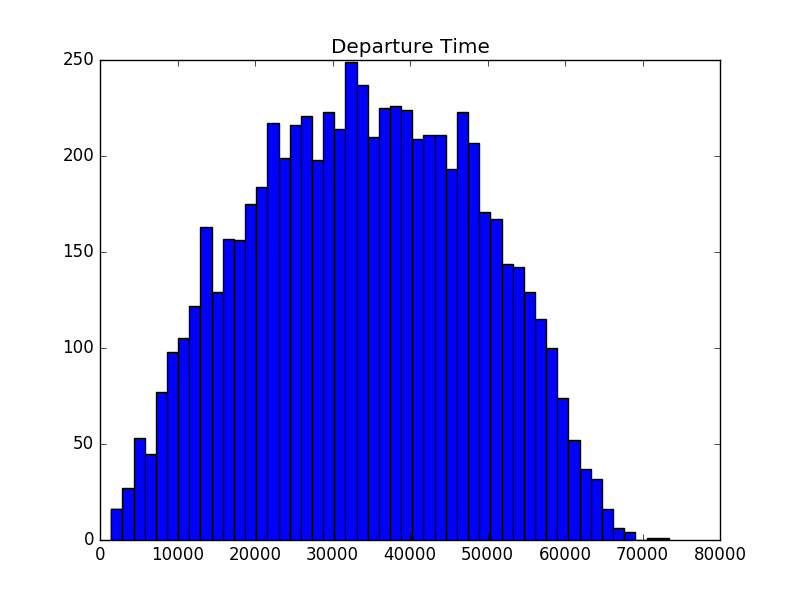
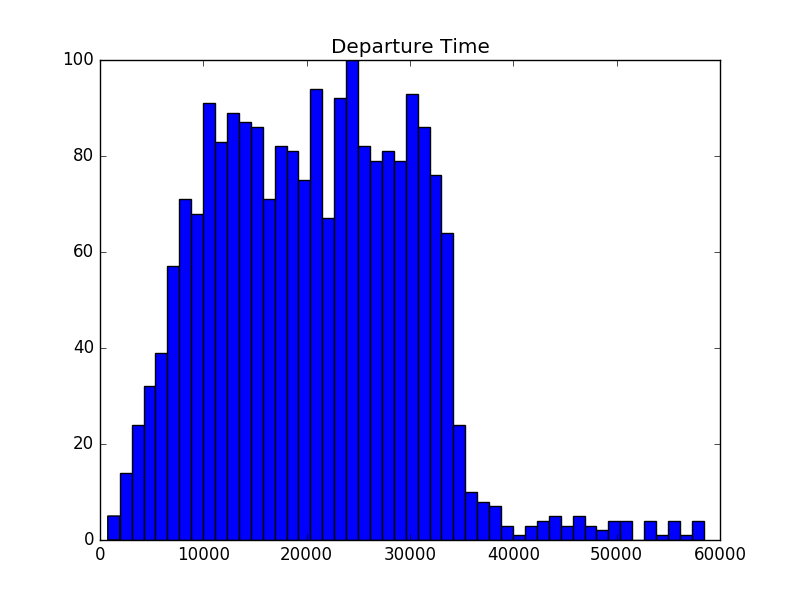
general update

diff --git a/MMnPSQ.py b/MMnPSQ.py
@@ -33,7 +33,7 @@ class SimulationModel():
         self.service_rate = service_rate
         self.server_count = server_count
         t = np.linspace(1,18*60,18*60)
-        self.survival = np.exp(-np.exp(-11.5/0.902)*t**(1/0.902))
+        self.survival = np.exp(-np.exp(-7.5/0.902)*t**(1/0.902))
         self.indiviuals_in_service = []
         
     def MMS1PS_simulation_loop_multisim(self, max_sim_time, concurency_limit: int, model_type = 'mbf'):
@@ -151,19 +151,31 @@ class SimulationModel():
 
     def MMS1PS_simulation_loop_singlesim(self, max_sim_time, concurency_limit: int, model_type = 'mbf'):
         t, na, c1, c2 = 0, 0, 0, 0
-
-        # generate a two server model
-        shift = [Servers(self.service_rate, i, concurency_limit) for i in range(self.server_count)]
-        # generate the first service time
-        t0 = rnd.expovariate(self.demand[5])*60.
+        t0 = rnd.expovariate(self.demand[5]) * 60.
         ta = t0
+        # generate a two server model
+        dt = pd.read_csv("overallshift.csv")
+        schedule = dt.query('start <= %s < end'%t0)['Mon'].values[0]
+
+        shift = [Servers(self.service_rate, i, concurency_limit) for i in range(schedule)]
+        # generate the first service time
 
         while t < max_sim_time:
             # loop through the servers to see who is the most busy but not reached their concurrency limit
-            agents = [(x.concurrent_chats, x.id) for x in shift if x.concurrent_chats < concurency_limit]
+            if dt.query('start <= %s < end'%t)['Mon'].values[0] - len(shift) >= 0:
+                for i in range((dt.query('start <= %s < end' % t)['Mon'].values[0] - len(shift))):
+                    shift.append(Servers(self.service_rate, i, concurency_limit))
+            elif dt.query('start <= %s < end'%t)['Mon'].values[0] - len(shift) < 0:
+                diff = dt.query('start <= %s < end'%t)['Mon'].values[0] - len(shift)
+                for i in range(int(math.fabs(diff))):
+                    shift[i].active = False
+
+            agents = [(x.concurrent_chats, x.id) for x in shift
+                      if x.concurrent_chats < concurency_limit and x.active is True]
 
             for i in shift:
-                i.generate_idle_flag(t)
+                if i.active:
+                    i.generate_idle_flag(t)
             
             # this could be zero length for which the person will be assigned to a queue and given a wait time
             
@@ -311,7 +323,8 @@ class SimulationModel():
             agents = [(x.concurrent_chats, x.id) for x in shift if x.concurrent_chats < concurency_limit]
 
             for i in shift:
-                i.generate_idle_flag(t)
+                if i.active:
+                    i.generate_idle_flag(t)
 
             # this could be zero length for which the person will be assigned to a queue and given a wait time
 
@@ -372,12 +385,12 @@ class SimulationModel():
         is a concave quadratic continuous function in the R2 space
         """
         t = np.linspace(0,work_day_hours,work_day_hours*60)
-        demand = -7*t*(t-work_day_hours)
+        demand = -15*t*(t-work_day_hours)
         return demand
 
     def generate_abandoment(self, wait_time):
         p = rnd.uniform(0,1)
-        if p > self.survival[int(wait_time)]:
+        if p > self.survival[int(wait_time/60)]:
             return True
         else:
             return False
@@ -497,6 +510,7 @@ class Shift:
         self.MOBILE = pd.read_csv("mobileshift.csv")
         self.REPAIR = pd.read_csv("repairshift.csv")
         self.TVSPORT = pd.read_csv("tvsportshift.csv")
+        self.overall = pd.read_csv("overallshift.csv")
 
 
 

diff --git a/scratch.py b/scratch.py
@@ -48,7 +48,7 @@ plt.plot(x2, density2(x2), '-k', linewidth = 1.5)
 plt.plot(x3, density2(x2), '-b', linewidth = 1.5)
 
 t = np.linspace(0,18,18*60)
-demand = -7*t*(t-18)
+demand = -15*t*(t-18)
 plt.figure()
 plt.plot(t,demand)
 
@@ -105,4 +105,13 @@ print(df5)
 import pandas as pd
 import MMnPSQ
 sim = MMnPSQ.SimulationModel(30,180)
-shift, hist = sim.MMS1PS_simulation_loop_singlesim(64800,3)
+shift, hist = sim.MMS1PS_simulation_loop_singlesim(57600,3)
+
+
+import pandas as pd
+test = pd.read_csv('overallshift.csv')
+t0 = 0.0
+test.query('start <= %s <= end'%0.0)['Mon'].values[0]
+
+
+
